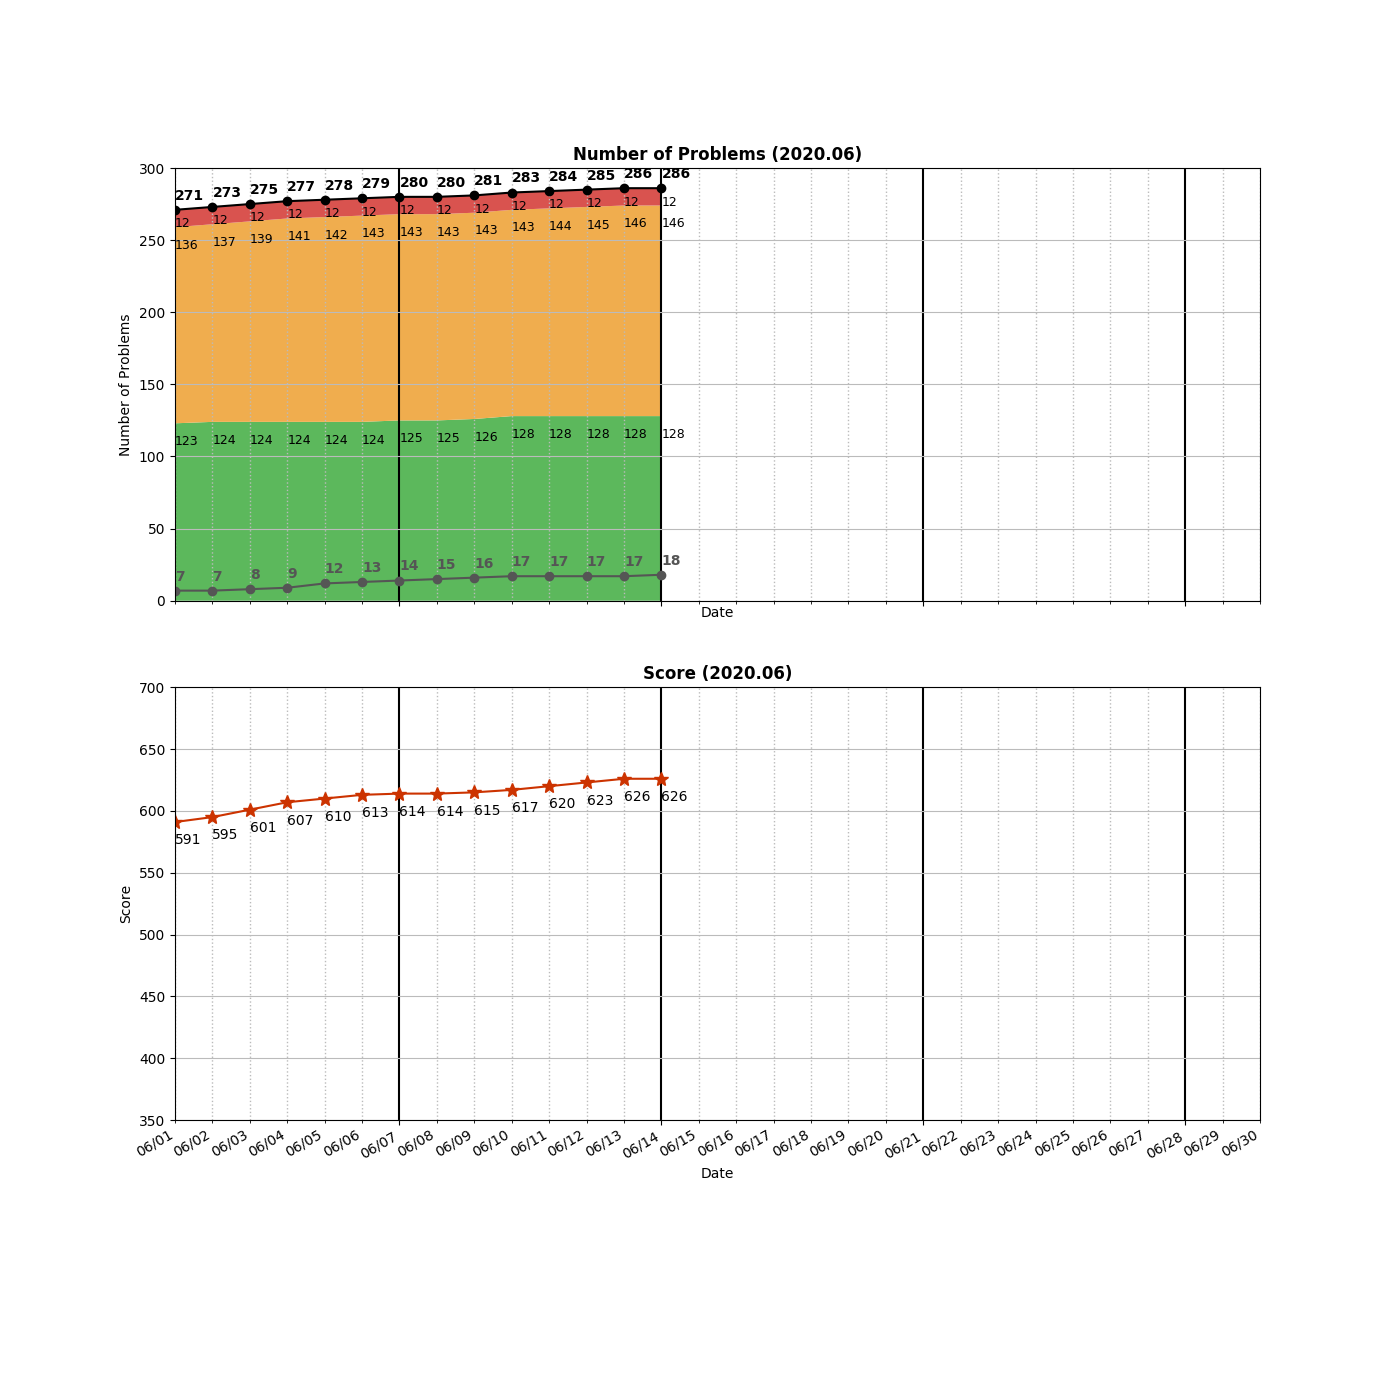
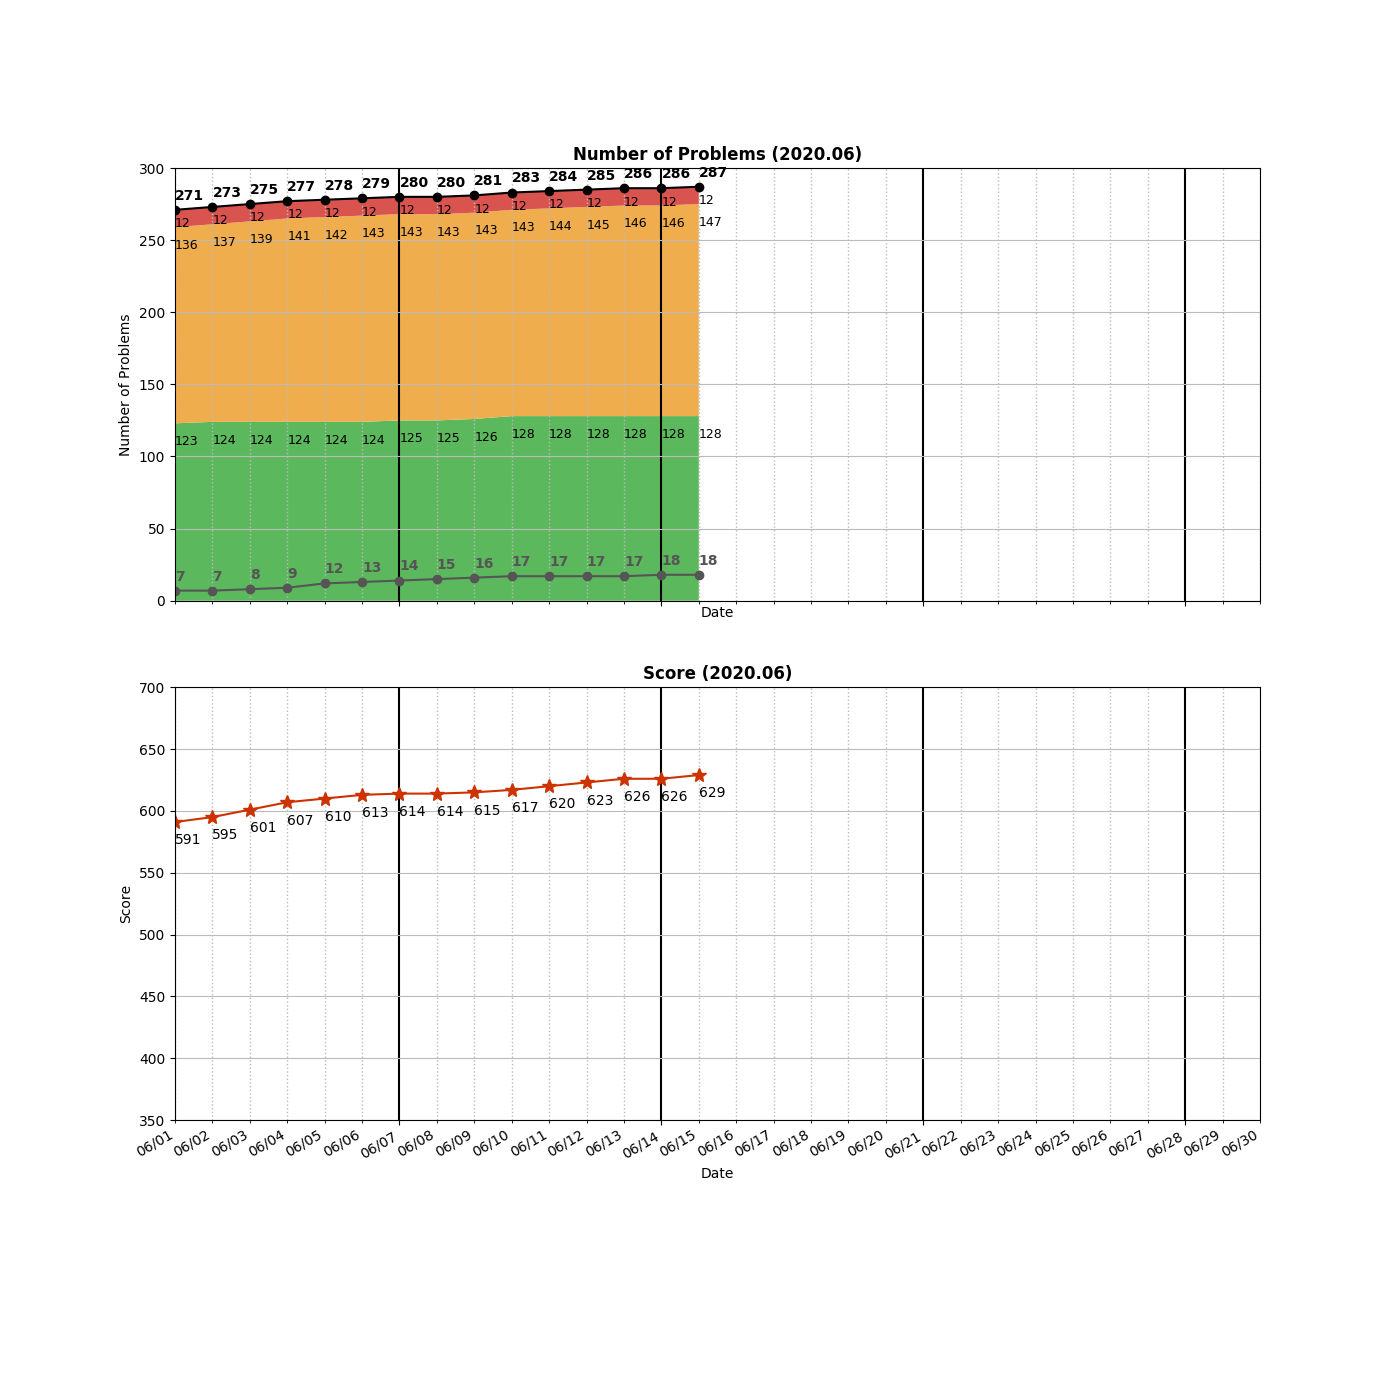
Added _0787_CheapestFlightsWithinKStops.py

Changed region(s): [[0.4607, 0.1229, 0.5221, 0.43], [0.4914, 0.5529, 0.5221, 0.5836]]

diff --git a/algo/shortest-path/_0787_CheapestFlightsWithinKStops.py b/algo/shortest-path/_0787_CheapestFlightsWithinKStops.py
@@ -1,0 +1,96 @@
+class Solution:
+    
+    # Modified Dijkstra: [46% - 91%]
+    # >> select smallest weight (heap nature), if no, next will be the larger weight but ok stops
+    # Example:
+    # 6
+    # [[0,1,5],[1,2,5],[0,3,2],[3,1,2],[1,4,1],[4,2,1],[5,1,2],[0,5,3]]
+    # 0
+    # 2
+    # 2
+    def findCheapestPrice(self, n: int, flights: List[List[int]], src: int, dst: int, K: int) -> int:
+        print("Modified Dijkstra")
+        if n == 0 or len(flights) == 0:
+            return -1
+        
+        cost = collections.defaultdict(dict)
+        for u, v, w in flights:
+            cost[u][v] = w 
+            
+        distance = [float("inf") for _ in range(n)]
+        curStops = [float("inf") for _ in range(n)]
+        distance[src] = 0
+        curStops[src] = 0
+        
+        heap = [(0, 0, src)]  #cost, stops, node
+        
+        while heap:
+            #print("Heap:", heap, " Distance:", distance, "Stops:", curStops)
+            c, s, u = heapq.heappop(heap)
+            
+            if u == dst:
+                return c
+            if s == K + 1:
+                continue
+            
+            distance[u] = c  #MUST
+            
+            for v in cost[u]:
+                #Consider the smallest weight path
+                if distance[u] + cost[u][v] < distance[v]:
+                    distance[v] = cost[u][v] + c
+                    heapq.heappush(heap, (distance[v], s+1, v))
+                
+                #Also consider the path which has feasible stops yet (but not smallest weight)
+                elif s < curStops[v]: 
+                    curStops[v] = s
+                    distance[v] = cost[u][v] + c
+                    heapq.heappush(heap, (distance[v], s+1, v))
+                    
+                # Weight higher and step more (no need at all)
+                # else:
+                #     print("Not choosed:", [c, s ,u], "->", v)
+
+        if distance[dst] != float("inf"):
+            return distance[dst]
+        return -1
+    
+    # ==================================================================================
+    # Original Dijkstra (wrong) 
+    def findCheapestPrice1(self, n: int, flights: List[List[int]], src: int, dst: int, K: int) -> int:
+        print("Original Dijkstra (wrong)")
+        if n == 0 or len(flights) == 0:
+            return -1
+        
+        cost = collections.defaultdict(dict)
+        for u, v, w in flights:
+            cost[u][v] = w 
+            
+        distance = {}
+        heap = [(0, src)]
+        count = 0
+        while heap:
+            print(count, heap, distance)
+            for _ in range(len(heap)):
+                c, u = heapq.heappop(heap)
+                
+                if u in distance:
+                    continue
+                
+                distance[u] = c
+                
+                if count == K + 1:  #reach the question limit (K)
+                    print("reach K:")
+                    if dst in distance:
+                        return distance[dst]
+                    return -1 
+                
+                for v in cost[u]:
+                    dist = c + cost[u][v]
+                    heapq.heappush(heap, (dist, v))
+            count += 1 
+        
+        print("empty heap")
+        if dst in distance:
+            return distance[dst]
+        return -1 

diff --git a/README.md b/README.md
@@ -215,7 +215,8 @@ algo
 │   ├── _0509_FibonacciNumber.py
 │   └── _0700_SearchInABinarySearchTree.py
 ├── shortest-path
-│   └── _0743_NetworkDelayTime.py
+│   ├── _0743_NetworkDelayTime.py
+│   └── _0787_CheapestFlightsWithinKStops.py
 ├── sliding-window
 │   └── _0076_MinimumWindowSubstring.py
 ├── sorting
@@ -310,7 +311,7 @@ algo
     ├── _0127_WordLadder_TLE.py
     └── _0127_WordLadder_wrong.py
 
-25 directories, 284 files
+25 directories, 285 files
 
 =====================================
 ============= Local Repo ============
@@ -559,6 +560,7 @@ _0746_MinCostClimbingStairs.py
 _0771_JewelsAndStones.py
 _0783_MinimumDistanceBetweenBSTNodes.py
 _0784_LetterCasePermutation.py
+_0787_CheapestFlightsWithinKStops.py
 _0819_MostCommonWord.py
 _0841_KeysAndRooms.py
 _0844_BackspaceStringCompare.py
@@ -599,7 +601,7 @@ _1358_NumberOfSubstringsContainingAllThreeCharacters.py
 _1391_CheckIfThereIsAValidPathInAGrid.py
 _1427_PerformStringShifts.py
 =====================================
-Num of Python Practice:  283
+Num of Python Practice:  284
 
 
 =====================================
@@ -851,6 +853,7 @@ Num of Python Practice:  283
  0771 Jewels and Stones
  0783 Minimum Distance Between BST Nodes
  0784 Letter Case Permutation
+ 0787 Cheapest Flights Within K Stops
  0819 Most Common Word
  0841 Keys and Rooms
  0844 Backspace String Compare
@@ -893,10 +896,10 @@ Num of Python Practice:  283
  1427 Perform String Shifts
 =====================================
 Solved / Total (Easy)  :  128 /  415
-Solved / Total (Medium):  146 /  757
+Solved / Total (Medium):  147 /  757
 Solved / Total (Hard)  :   12 /  311
-Solved / Total (All)   :  286 / 1483
-Total Score            :  626
+Solved / Total (All)   :  287 / 1483
+Total Score            :  629
 =====================================
 
 ```

diff --git a/ProblemType.md b/ProblemType.md
@@ -50,6 +50,10 @@
 - 0935  Knight Dialer
 - 1197  Minimum Knight Moves  
 
+## Shortest Path系列
+- 0743  Network Delay Time (shortest path)
+- 0787  Cheapest Flights Within K Stops (shortest path + 站數限制)
+
 <br>
 
 # 各種解法
